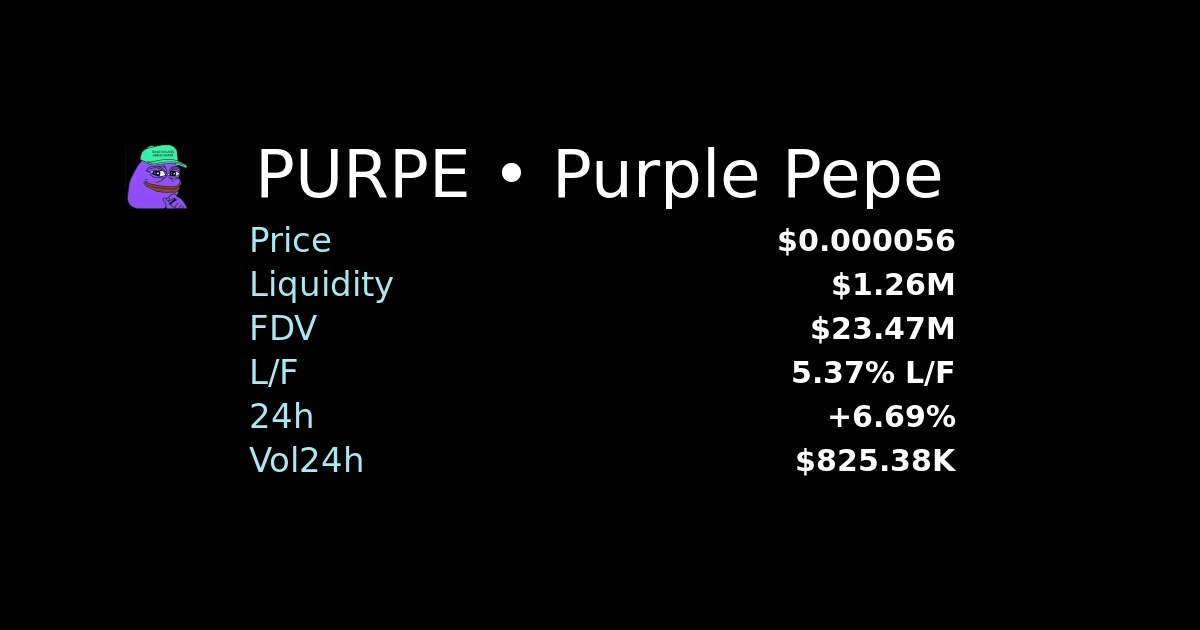
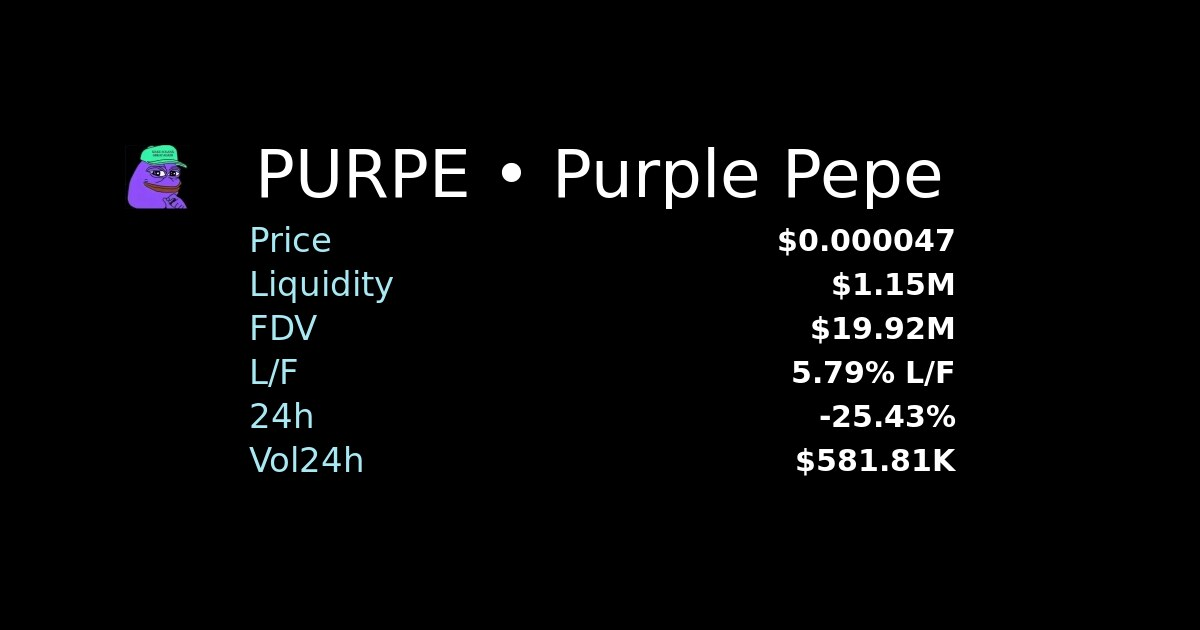
chore: update sitemap & token pages

diff --git a/token/HBoNJ5v8g71s2boRivrHnfSB5MVPLDHHyVjruPfhGkvL/index.html b/token/HBoNJ5v8g71s2boRivrHnfSB5MVPLDHHyVjruPfhGkvL/index.html
@@ -4,14 +4,14 @@
     <meta charset="utf-8" />
     <meta name="viewport" content="width=device-width,initial-scale=1" />
     <title>PURPE on Solana</title>
-    <meta name="description" content="Purple Pepe • Price: $0.000056 • Liquidity: $1.26M" />
+    <meta name="description" content="Purple Pepe • Price: $0.000047 • Liquidity: $1.15M" />
     <meta name="author" content="builders-toronto" />
     <meta name="keywords" content="solana, memecoin, bonk, wif, dog, inu, pepe, cat, meme, ponk, samo, purry, purr, kitty, meow, woof, frog, snek, toad, bob, dino, monke, monkey, ape, corgi, floki, elon" />
 
     <!-- OG -->
     <meta property="og:type" content="website" />
     <meta property="og:title" content="PURPE on Solana" />
-    <meta property="og:description" content="Purple Pepe • Price: $0.000056 • Liquidity: $1.26M" />
+    <meta property="og:description" content="Purple Pepe • Price: $0.000047 • Liquidity: $1.15M" />
     <meta property="og:url" content="https://fdv.lol/token/HBoNJ5v8g71s2boRivrHnfSB5MVPLDHHyVjruPfhGkvL" />
     <meta property="og:image" content="https://fdv.lol/token/HBoNJ5v8g71s2boRivrHnfSB5MVPLDHHyVjruPfhGkvL/og.jpg" />
     <meta property="og:image:width" content="1200" />
@@ -21,7 +21,7 @@
     <!-- Twitter -->
     <meta name="twitter:card" content="summary_large_image" />
     <meta name="twitter:title" content="PURPE on Solana" />
-    <meta name="twitter:description" content="Purple Pepe • Price: $0.000056 • Liquidity: $1.26M" />
+    <meta name="twitter:description" content="Purple Pepe • Price: $0.000047 • Liquidity: $1.15M" />
     <meta name="twitter:image" content="https://fdv.lol/token/HBoNJ5v8g71s2boRivrHnfSB5MVPLDHHyVjruPfhGkvL/og.jpg" />
 
     <link rel="icon" type="image/png" href="/src/assets/images/icons/fdv.lol.ico" />
@@ -35,7 +35,7 @@
       "@type": "WebSite",
       "name": "PURPE on Solana",
       "url": "https://fdv.lol/token/HBoNJ5v8g71s2boRivrHnfSB5MVPLDHHyVjruPfhGkvL",
-      "description": "Purple Pepe • Price: $0.000056 • Liquidity: $1.26M",
+      "description": "Purple Pepe • Price: $0.000047 • Liquidity: $1.15M",
       "keywords": [
         "solana",
         "memecoin",

diff --git a/token/BrEiwuaLCuG7nG9bMuDg9ihp6sisvD6DCqNjrudHxmzg/index.html b/token/BrEiwuaLCuG7nG9bMuDg9ihp6sisvD6DCqNjrudHxmzg/index.html
@@ -4,14 +4,14 @@
     <meta charset="utf-8" />
     <meta name="viewport" content="width=device-width,initial-scale=1" />
     <title>RENO on Solana</title>
-    <meta name="description" content="RENOVATION • Price: $0.000011 • Liquidity: $2.53K" />
+    <meta name="description" content="RENOVATION • Price: $0.000011 • Liquidity: $11.18K" />
     <meta name="author" content="builders-toronto" />
     <meta name="keywords" content="solana, memecoin, bonk, wif, dog, inu, pepe, cat, meme, ponk, samo, purry, purr, kitty, meow, woof, frog, snek, toad, bob, dino, monke, monkey, ape, corgi, floki, elon" />
 
     <!-- OG -->
     <meta property="og:type" content="website" />
     <meta property="og:title" content="RENO on Solana" />
-    <meta property="og:description" content="RENOVATION • Price: $0.000011 • Liquidity: $2.53K" />
+    <meta property="og:description" content="RENOVATION • Price: $0.000011 • Liquidity: $11.18K" />
     <meta property="og:url" content="https://fdv.lol/token/BrEiwuaLCuG7nG9bMuDg9ihp6sisvD6DCqNjrudHxmzg" />
     <meta property="og:image" content="https://fdv.lol/token/BrEiwuaLCuG7nG9bMuDg9ihp6sisvD6DCqNjrudHxmzg/og.jpg" />
     <meta property="og:image:width" content="1200" />
@@ -21,7 +21,7 @@
     <!-- Twitter -->
     <meta name="twitter:card" content="summary_large_image" />
     <meta name="twitter:title" content="RENO on Solana" />
-    <meta name="twitter:description" content="RENOVATION • Price: $0.000011 • Liquidity: $2.53K" />
+    <meta name="twitter:description" content="RENOVATION • Price: $0.000011 • Liquidity: $11.18K" />
     <meta name="twitter:image" content="https://fdv.lol/token/BrEiwuaLCuG7nG9bMuDg9ihp6sisvD6DCqNjrudHxmzg/og.jpg" />
 
     <link rel="icon" type="image/png" href="/src/assets/images/icons/fdv.lol.ico" />
@@ -35,7 +35,7 @@
       "@type": "WebSite",
       "name": "RENO on Solana",
       "url": "https://fdv.lol/token/BrEiwuaLCuG7nG9bMuDg9ihp6sisvD6DCqNjrudHxmzg",
-      "description": "RENOVATION • Price: $0.000011 • Liquidity: $2.53K",
+      "description": "RENOVATION • Price: $0.000011 • Liquidity: $11.18K",
       "keywords": [
         "solana",
         "memecoin",
